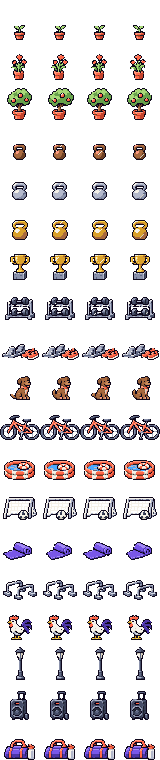
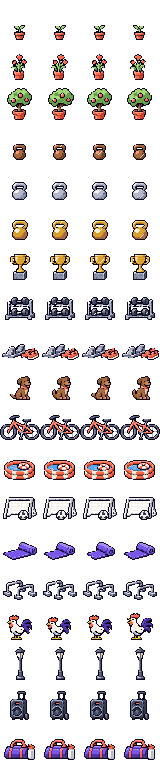
feat(jogo): animações do tapete de ioga e do galo (Zen e Madrugador)
Tira nova do tapete, coerente nos 4 quadros: ele enrola e desenrola, e a
ordem dos quadros volta à natural. O galo abaixa a cabeça e canta, com
os pés parados.

diff --git a/Wrexercise/webapp/src/features/jogo/enfeitesNaPraca.ts b/Wrexercise/webapp/src/features/jogo/enfeitesNaPraca.ts
@@ -21,9 +21,9 @@ const atlas = {
   ciclista: { linha: 10, esquerda: 0, largura: 40, altura: 25, ms: 160 },
   peixe: { linha: 11, esquerda: 4, largura: 31, altura: 20, ms: 260 },
   boleiro: { linha: 12, esquerda: 3, largura: 34, altura: 23, ms: 240 },
-  zen: { linha: 13, esquerda: 3, largura: 29, altura: 18, ms: 360 },
+  zen: { linha: 13, esquerda: 3, largura: 34, altura: 18, ms: 360 },
   pesodocorpo: { linha: 14, esquerda: 3, largura: 34, altura: 20, ms: 260 },
-  madrugador: { linha: 15, esquerda: 7, largura: 25, altura: 25, ms: 240 },
+  madrugador: { linha: 15, esquerda: 6, largura: 27, altura: 27, ms: 240 },
   noturno: { linha: 16, esquerda: 15, largura: 10, altura: 33, ms: 140 },
   fimdesemana: { linha: 17, esquerda: 10, largura: 19, altura: 29, ms: 150 },
   ecletico: { linha: 18, esquerda: 4, largura: 31, altura: 21, ms: 200 },

diff --git a/pixel-art/enfeites/build.py b/pixel-art/enfeites/build.py
@@ -87,11 +87,9 @@ BRILHO = {
 }
 GIZ, GIZ_SOMBRA = "#f5f1e8", "#d6d0c0"
 
-# A ordem dos quadros da tira (0 a 3), quando o quadro 1 do ChatGPT não combina com os outros: o
-# tapete veio com o quadro 1 desenhado de outro jeito, então o ciclo usa 2, 3, 4, 3.
-ORDEM_DA_TIRA = {
-    "zen": [1, 2, 3, 2],
-}
+# A ordem dos quadros da tira (0 a 3), quando o quadro 1 do ChatGPT não combina com os outros: por
+# exemplo, [1, 2, 3, 2] para usar os quadros 2, 3, 4, 3.
+ORDEM_DA_TIRA: dict[str, list[int]] = {}
 
 (AQUI / "saida").mkdir(exist_ok=True)
 (AQUI / "preview").mkdir(exist_ok=True)

diff --git a/pixel-art/enfeites/prompts-chatgpt.md b/pixel-art/enfeites/prompts-chatgpt.md
@@ -145,7 +145,7 @@ pixels) and loops smoothly from frame 4 back to frame 1.
 
 1. Folha-base: separa as manchas que não são magenta e junta as que quase se encostam (o bloco de largada e os tênis) num objeto. Lê os objetos em ordem de leitura (linhas pela altura, da esquerda para a direita), e não pela grade: o ChatGPT às vezes põe 6 objetos numa linha. Se não achar exatamente 19, para com erro. Reduz **todas com a mesma escala**, pela cor mais comum de cada bloco, para que a maior ocupe os 40 px; assim os objetos mantêm as proporções reais. Cada objeto fica centrado e apoiado na base da célula.
 2. Tira: divide em 2×2 e reduz os 4 quadros com a escala que deixa o quadro 1 com a altura do objeto na base. Cada quadro mantém a posição relativa ao quadro 1 (um rabo que balança não arrasta o corpo), e o quadro 1 é alinhado ao objeto da base.
-   Se o quadro 1 da tira não combinar com os outros, ponha o Enfeite em `ORDEM_DA_TIRA` com a ordem dos quadros a usar (o tapete usa 2, 3, 4, 3).
+   Se o quadro 1 da tira não combinar com os outros, ponha o Enfeite em `ORDEM_DA_TIRA` com a ordem dos quadros a usar (por exemplo, 2, 3, 4, 3).
    Se a parte que devia ficar parada (um vaso, uma base) tremer entre os quadros, ponha o Enfeite em `PARADO_EMBAIXO` no `build.py`: as linhas de baixo de todos os quadros passam a ser as do quadro 1.
 3. Troca cada cor pela mais próxima da paleta `wrexercise` (e das cores do script); o magenta vira transparente.
 4. Grava `saida/enfeites.png`, copia para `webapp/public/enfeites.png` e grava `preview/folha-4x.png` e `preview/animado.gif`.
